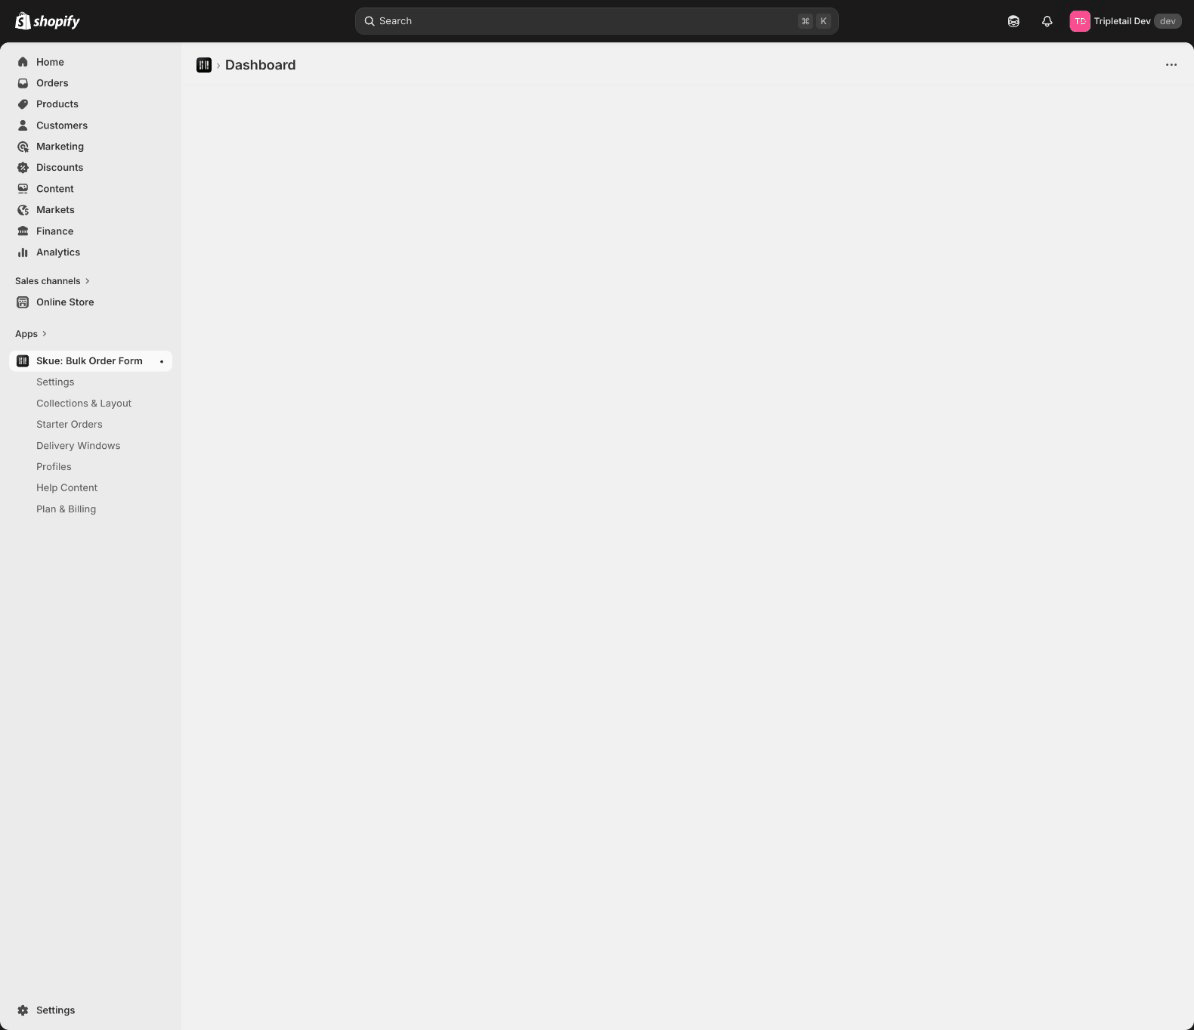
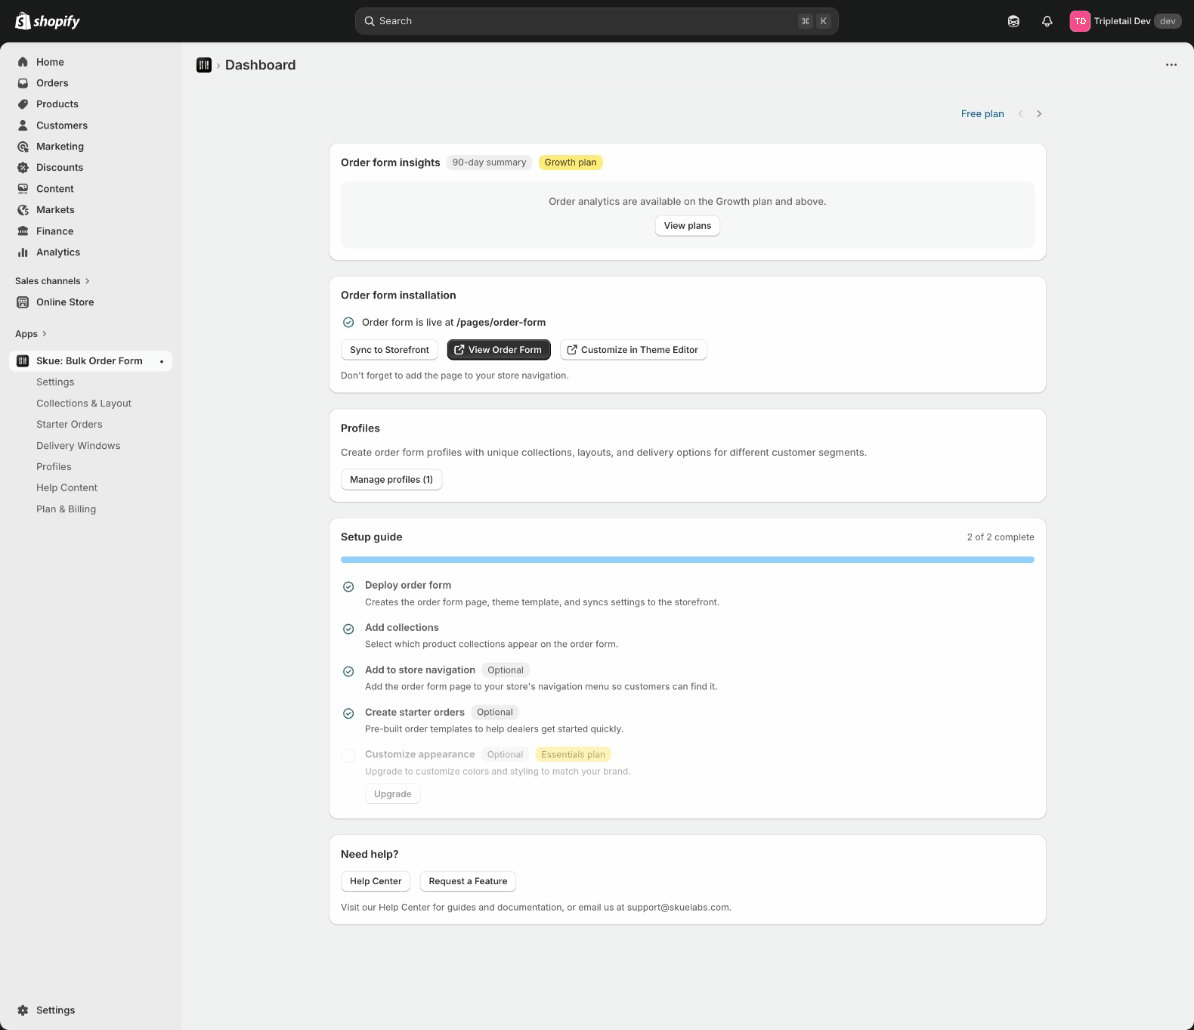
Fix help center: better screenshots, remove Home nav link, fix CSS
- Re-captured dashboard screenshot with full content visible (was blank)
- Re-captured order form screenshot showing complete toolbar + grid
- Removed duplicate .screenshot CSS rule that was overriding image display
  with dashed-border placeholder styling
- Removed "Home" link from nav (not needed, logo links home)
- Consolidated order form screenshots (grid view now in main screenshot)

diff --git a/help/index.html b/help/index.html
@@ -290,23 +290,6 @@
       border-bottom: none;
     }
 
-    /* Screenshot placeholders */
-    .screenshot {
-      background: var(--code-bg);
-      border: 1px dashed var(--border);
-      border-radius: 8px;
-      padding: 24px;
-      text-align: center;
-      margin-bottom: 20px;
-      color: var(--muted);
-      font-size: 13px;
-    }
-    .screenshot img {
-      max-width: 100%;
-      border-radius: 8px;
-      border: 1px solid var(--border);
-    }
-
     /* Feature badges */
     .plan-badge {
       display: inline-block;
@@ -376,7 +359,6 @@
       <span class="logo-text">Skue<span>Labs</span></span>
     </a>
     <div class="nav-links">
-      <a href="/" class="nav-link">Home</a>
       <a href="/help" class="nav-link" style="color:var(--text);font-weight:600">Help Center</a>
       <a href="/#contact" class="nav-link">Contact</a>
     </div>
@@ -760,8 +742,8 @@
       <section class="doc-section" id="order-form">
         <h2>The Order Form</h2>
         <p>The storefront order form is the customer-facing page at <code>/pages/order-form</code>. It displays your products in a spreadsheet-style table organized by collection.</p>
-        <img src="images/order-form.png" alt="Storefront order form showing product grid with collection headers, pricing columns, and quantity controls" class="screenshot">
-        <p class="screenshot-caption">The storefront order form — a spreadsheet-style grid with review bar, search, and action buttons</p>
+        <img src="images/order-form.png" alt="Storefront order form showing review bar, search toolbar, delivery windows, starter orders, and product grid with pricing columns" class="screenshot">
+        <p class="screenshot-caption">The order form — review bar, toolbar with search and actions, and product grid organized by collection</p>
 
         <h3>Layout</h3>
         <p>From top to bottom, the order form includes:</p>
@@ -777,8 +759,6 @@
 
         <h3>Variants</h3>
         <p>Products with multiple variants show a <strong>Choose Variants</strong> button instead of a simple quantity input. Clicking it opens a modal where customers can set quantities for each variant (size, color, etc.) individually.</p>
-        <img src="images/order-form-grid.png" alt="Order form product grid showing Choose Variants button and multiple collection sections" class="screenshot">
-        <p class="screenshot-caption">Products with variants show a "Choose Variants" button; simple products show +/− quantity controls</p>
       </section>
 
       <section class="doc-section" id="review-bar">
